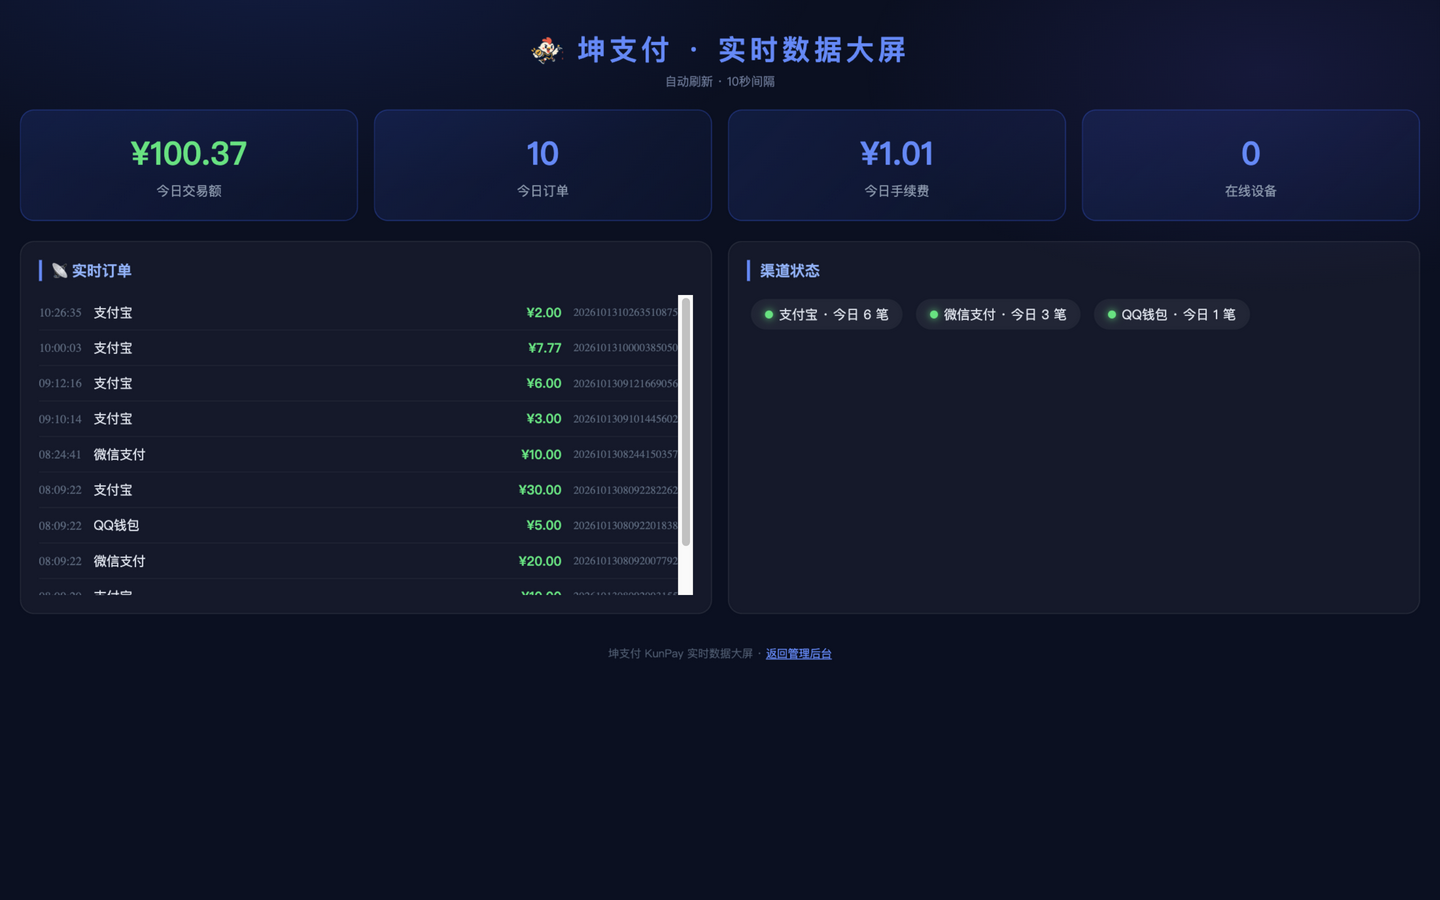
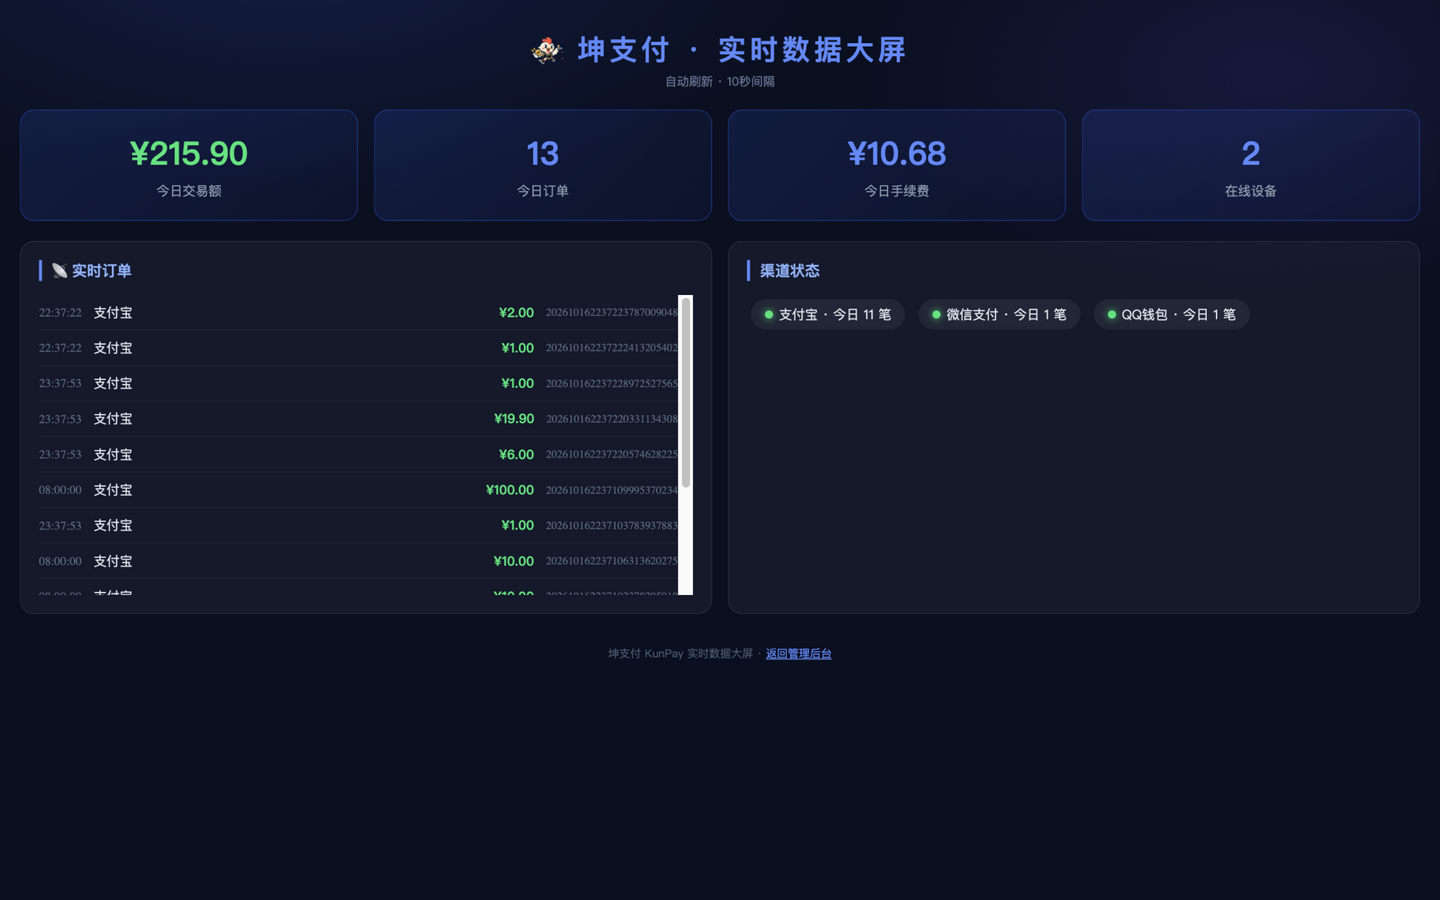
docs: README 介绍/赞助商/界面预览全面重写, 截图全部换成 v1.3.1 实拍
- 介绍: 突出个人码收款·资金不经手/单文件部署/易支付零改造/APP扫码配对/资金流水守恒
- 赞助商: 两处合并为一处精致卡片, 补充赞助联系方式
- 界面预览: 按门户/商户/后台/监控运维分组, 全部 12 张截图为 v1.3.1 真实界面实拍
  (浏览器 1440x900 实截 10 页 + Android 模拟器实截 APP 在线状态/新手引导 2 图)
- 删除已下架桌面助手的旧截图

diff --git a/README.md b/README.md
@@ -1,15 +1,18 @@
 # 坤支付 KunPay
 
 <p align="center">
-  <b>开源个人免签约码支付系统 · Go 语言单文件部署</b><br>
-  易支付协议兼容 · 监控客户端全家桶 · 多码轮询 · 事件推送 · 审计级资金流水<br>
+  <b>开箱即用的个人免签约码支付系统 · Go 单文件部署</b><br>
+  易支付协议完全兼容 · 安卓APP扫码配对 · 多码轮询 · 审计级资金流水<br>
   <sub>v1.3.1 · 经过 29 轮安全审计 / 黑盒渗透 / 数据竞争检测的持续加固</sub>
 </p>
 
-一套使用 **Go 语言**开发的个人免签约「码支付」平台,易支付(EasyPay)协议完全兼容,现有商户系统**零改造接入**(submit.php / mapi.php / api.php)。
-编译产物为**单个二进制文件**(页面、静态资源、SQLite 驱动全部 go:embed 内嵌),**Windows / Linux / macOS** 一键部署,零外部依赖。
-配套**安卓监控APP**(自动监听微信/支付宝/QQ 收款通知,POST 加密上报,HMAC-SHA256 签名防重放),支持云手机 7×24 挂机与主备设备自动接管。
-同作者生态:**[坤面板 KunPanel](https://github.com/kungec/kunpanel)** 服务器运维管理面板 —— 推荐以其部署坤支付,反向代理/Let's Encrypt 证书/WAF 防火墙/计划任务备份开箱即用(见下文安装部署)。
+**坤支付**是一套用 **Go 语言**从零编写的个人免签约「码支付」平台:绑定你自己的微信 / 支付宝 / QQ 收款码,安卓监控APP 自动监听到账通知并回填订单——**资金全程直达个人账户,平台不经手一分钱**。
+
+- **🎯 零依赖部署**:页面、静态资源、SQLite 驱动全部 go:embed 内嵌,**一个二进制文件**跑起整个平台,Windows / Linux / macOS 全平台支持;
+- **🔌 存量商户零改造**:易支付(EasyPay)协议完全兼容,`submit.php` / `mapi.php` / `api.php` 三接口原样对接,MD5 / RSA 双签名;
+- **📱 手机就是监控端**:安卓APP「扫一扫」扫码即完成配对,新手教程按步引导,严格来源模式防聊天文本伪造,支持云手机 7×24 挂机与主备设备自动接管;
+- **🧾 审计级资金流水**:每一笔余额变动都有 before/after 流水,余额与流水强守恒,结算 / 退款 / 返佣全事务化;
+- **🤝 同作者生态**:推荐用 **[坤面板 KunPanel](https://github.com/kungec/kunpanel)** 部署坤支付 —— 反向代理 / Let's Encrypt 证书 / WAF 防火墙 / 计划任务备份开箱即用(见下文安装部署)。
 
 ### ✨ 核心特性
 
@@ -28,17 +31,18 @@
 
 ## 💎 赞助商
 
-<table>
+<table align="center">
   <tr>
-    <td align="center" width="280">
-      <a href="https://www.kjvps.com" target="_blank"><b>KJ VPS</b></a><br>
-      <sub>跨境 VPS 服务商 · 高速稳定 · 全球节点</sub><br>
+    <td align="center" width="300">
+      <a href="https://www.kjvps.com" target="_blank"><img src="https://img.shields.io/badge/%E8%B5%9E%E5%8A%A9%E5%95%86-KJ_VPS-2e63f6?style=for-the-badge&labelColor=1a1a2e" alt="KJ VPS" /></a><br><br>
+      <b><a href="https://www.kjvps.com" target="_blank">KJ VPS</a></b> · 跨境 VPS 服务商<br>
+      <sub>高速稳定 · 全球节点 · 为本项目提供服务器支持</sub><br>
       <a href="https://www.kjvps.com" target="_blank">www.kjvps.com</a>
     </td>
   </tr>
 </table>
 
-> 感谢 **[KJ VPS](https://www.kjvps.com)** 为本项目提供跨境 VPS 支持。
+> 感谢 **[KJ VPS](https://www.kjvps.com)** 为本项目提供跨境 VPS 支持。如你也想赞助本项目(服务器 / 带宽 / 资金),欢迎通过 Issue 联系。
 
 ## 🚀 安装部署
 
@@ -110,28 +114,34 @@ curl -fsSL https://raw.githubusercontent.com/kungec/kunpay/main/scripts/install.
 
 ## 界面预览
 
-| 平台首页 | 收银台 |
+**平台门户**
+
+| 平台首页 | 收银台(扫码支付,金额含防撞尾数) |
 |---|---|
 | ![首页](docs/screenshots/home.png) | ![收银台](docs/screenshots/cashier.png) |
 
-| 商户中心 | 监控通道(多码轮询) |
+**商户中心**
+
+| 商户仪表盘(实时成交趋势) | 我的通道(多码轮询) |
 |---|---|
 | ![商户中心](docs/screenshots/dashboard.png) | ![我的通道](docs/screenshots/channels.png) |
+| **每日对账单(支持导出/邮件订阅)** | |
+| ![对账单](docs/screenshots/report.png) | |
 
-| 每日对账单 | 管理后台 |
-|---|---|
-| ![对账单](docs/screenshots/report.png) | ![管理后台](docs/screenshots/admin.png) |
+**管理后台**
 
-| 渠道管理(轮询+统计) | 订单详情(通知投递排障) |
+| 平台概览 | 渠道管理(限额/设备绑定/支付宝UID) |
 |---|---|
-| ![渠道管理](docs/screenshots/admin_channels.png) | ![订单详情](docs/screenshots/order_detail.png) |
+| ![管理后台](docs/screenshots/admin.png) | ![渠道管理](docs/screenshots/admin_channels.png) |
+| **订单详情(通知投递排障)** | |
+| ![订单详情](docs/screenshots/order_detail.png) | |
 
-| 安卓监控APP |
-|---|---|
-| ![安卓监控APP](docs/screenshots/monitor_android.png) |
+**监控与运维**
 
-| 公开运行状态页 | 实时数据大屏 |
+| 安卓监控APP(在线状态 + 三通道开关) | 安卓监控APP(新手引导 + 权限横幅) |
 |---|---|
+| ![安卓监控APP](docs/screenshots/monitor_android.png) | ![安卓监控APP引导](docs/screenshots/monitor_android_setup.png) |
+| **公开运行状态页** | **实时数据大屏** |
 | ![运行状态](docs/screenshots/status.png) | ![数据大屏](docs/screenshots/screen.png) |
 
 ## 收款监控客户端
@@ -305,15 +315,6 @@ python3 scripts/e2e_test.py        # 需先以全新数据库启动服务:
 ## ⚠ 使用须知
 
 本系统仅用于学习研究或合法合规的自有收款场景。支付行业受严格监管,请勿用于违法违规交易;正式商用请自行评估合规风险并取得相关资质。
-
-## 赞助商
-
-<div align="center">
-  <a href="https://www.kjvps.com" target="_blank">
-    <img src="https://img.shields.io/badge/赞助商-KJ_VPS-2e63f6?style=for-the-badge&labelColor=1a1a2e" alt="KJ VPS 跨境VPS">
-  </a>
-  <br><sub>跨境 VPS 服务商 · 高速稳定 · 全球节点 — <a href="https://www.kjvps.com">www.kjvps.com</a></sub>
-</div>
 
 ## 开源与贡献
 
